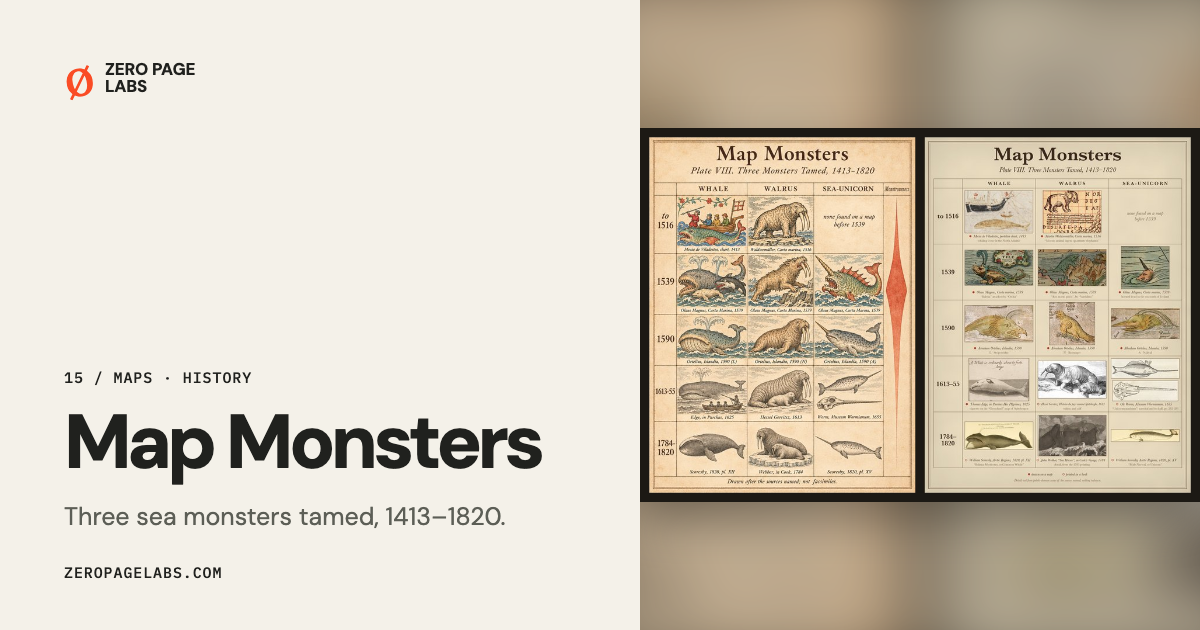
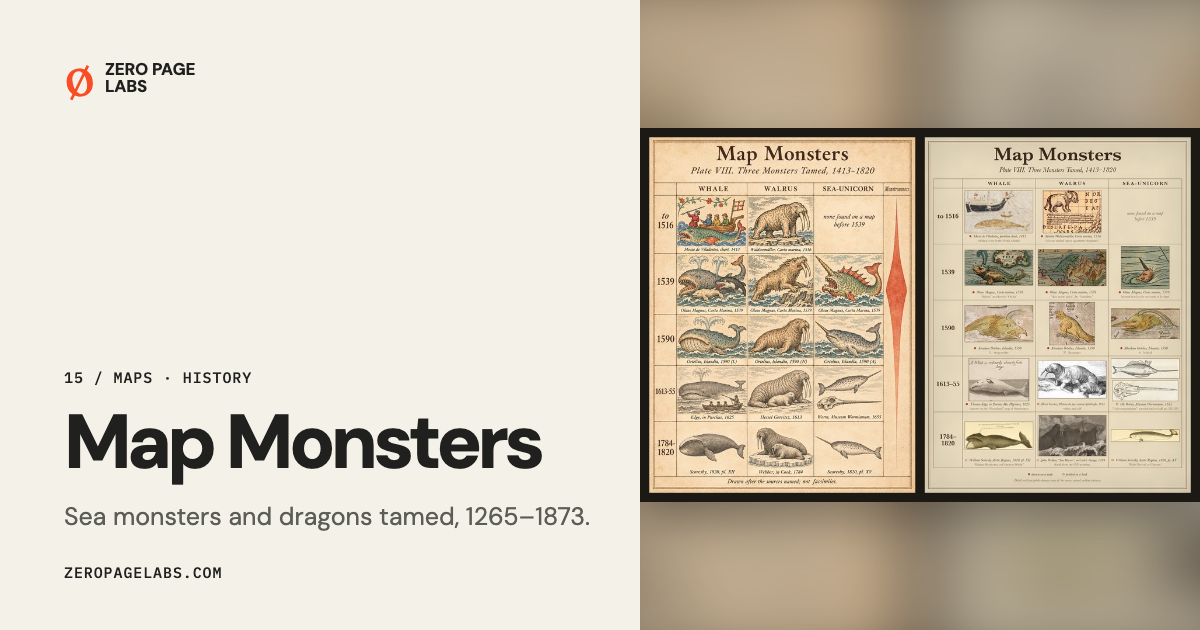
Map Monsters: add Plate IX (sea serpent, kraken) and Plate X (dragons, hydra)
Plate IX follows the sea serpent from Olaus Magnus's 1539 map to the
1860 Bermuda oarfish, and the kraken from his 1555 "polypus" to the 1873
Logy Bay giant squid photograph. Plate X follows the dragon from the
Psalter map (c. 1265) and the Hunt-Lenox globe's HC SVNT DRACONES to
Aldrovandi, Hevelius's star atlas and Seba's 1734 hydra. Each plate has
an illustrated view and one cut from public-domain scans; plate and view
are picked by tabs and the URL hash, and old #illustrated/#sources links
still open Plate VIII. Sources listed per plate.

Changed region(s): [[0.0308, 0.7841, 0.4933, 0.8444]]

diff --git a/experiments/map-monsters/index.html b/experiments/map-monsters/index.html
@@ -5,7 +5,7 @@
   <meta name="viewport" content="width=device-width,initial-scale=1">
   <meta name="theme-color" content="#1c1814">
   <title>Map Monsters — Zero Page Labs</title>
-  <meta name="description" content="Whale, walrus and sea-unicorn on maps and in books from 1413 to 1820, as one plate seen two ways: redrawn, and cut from the real scans.">
+  <meta name="description" content="Sea monsters and dragons on maps and in books, 1265–1873, in three plates seen two ways: redrawn, and cut from the real scans.">
   <link rel="canonical" href="https://zeropagelabs.com/experiments/map-monsters/">
   <link rel="icon" href="/assets/favicon.svg">
   <link rel="stylesheet" href="map-monsters.css">
@@ -21,39 +21,76 @@
 <main class="mm">
   <header class="title-row">
     <div>
-      <p class="kicker">Plate VIII · 1413–1820</p>
+      <p class="kicker">Three plates · 1265–1873</p>
       <h1>Map Monsters</h1>
     </div>
-    <p class="intro">Three animals the old mapmakers drew as monsters: the whale, the walrus and the narwhal, or sea-unicorn. Follow each down the plate and watch it settle into the animal over four centuries. See it two ways: redrawn, or cut straight from the maps and books.</p>
+    <p class="intro">What the old mapmakers drew in the sea and at the edges, and what became of it. Some monsters settled into real animals, some half did, and the dragons fled to the sky. Each plate can be seen two ways: redrawn, or cut straight from the maps and books.</p>
   </header>
 
-  <div class="views" role="tablist" aria-label="Choose a view">
-    <button type="button" role="tab" id="tab-illustrated" aria-controls="view-illustrated" aria-selected="true">Illustrated</button>
-    <button type="button" role="tab" id="tab-sources" aria-controls="view-sources" aria-selected="false">From the sources</button>
+  <div class="controls">
+    <div class="tabs plates" role="tablist" aria-label="Choose a plate">
+      <button type="button" role="tab" data-plate="viii" aria-selected="true"><b>VIII</b> Three tamed</button>
+      <button type="button" role="tab" data-plate="ix" aria-selected="false"><b>IX</b> Half-tamed</button>
+      <button type="button" role="tab" data-plate="x" aria-selected="false"><b>X</b> Dragons</button>
+    </div>
+    <div class="tabs views" role="tablist" aria-label="Choose a view">
+      <button type="button" role="tab" data-view="illustrated" aria-selected="true">Illustrated</button>
+      <button type="button" role="tab" data-view="sources" aria-selected="false">From the sources</button>
+    </div>
   </div>
 
   <div id="plate">
-    <section class="view" id="view-illustrated" role="tabpanel" aria-labelledby="tab-illustrated">
+    <!-- Plate VIII -->
+    <section class="view" id="viii-illustrated" data-plate="viii" data-view="illustrated" role="tabpanel" aria-label="Plate VIII, illustrated">
       <a class="plate" href="img/illustrated.webp" target="_blank" rel="noopener">
-        <img src="img/illustrated.webp" width="1086" height="1448" alt="Illustrated plate: whale, walrus and sea-unicorn in five rows from 1413 to 1820, each redrawn after a named map or book, with a red spindle labelled Monstrousness that peaks in 1539">
+        <img src="img/illustrated.webp" width="1086" height="1448" alt="Illustrated Plate VIII: whale, walrus and sea-unicorn in five rows from 1413 to 1820, each redrawn after a named map or book, with a red spindle labelled Monstrousness that peaks in 1539">
       </a>
-      <p class="note"><b>Redrawn, not copied.</b> An image model drew this plate after the sources named in its captions. It follows their spirit, not their lines: the Ortelius walrus and narwhal, for example, look nothing like this on the real map. The Monstrousness spindle is an invention. Switch to <a href="#view-sources" data-view="sources">From the sources</a> to see the originals.</p>
+      <p class="note"><b>Redrawn, not copied.</b> An image model drew this plate after the sources named in its captions. It follows their spirit, not their lines: the Ortelius walrus and narwhal, for example, look nothing like this on the real map. The Monstrousness spindle is an invention. Switch to <a href="#viii-sources" data-go="sources">From the sources</a> to see the originals.</p>
+    </section>
+    <section class="view" id="viii-sources" data-plate="viii" data-view="sources" role="tabpanel" aria-label="Plate VIII, from the sources" hidden>
+      <a class="plate" href="img/sources.webp" target="_blank" rel="noopener">
+        <img src="img/sources-1200.webp" srcset="img/sources-1200.webp 1200w, img/sources.webp 2400w" sizes="(max-width: 860px) 100vw, 820px" width="1200" height="1600" loading="lazy" alt="Plate VIII built from details of public-domain scans: fourteen crops of whale, walrus and narwhal from maps and books, 1413 to 1820">
+      </a>
+      <p class="note"><b>Nothing redrawn.</b> Every picture is a detail cut from a public-domain scan of the source named under it. A filled dot means it was drawn on a map; a ring means it was printed. Open the plate for the full-size version.</p>
     </section>
 
-    <section class="view" id="view-sources" role="tabpanel" aria-labelledby="tab-sources" hidden>
-      <a class="plate" href="img/sources.webp" target="_blank" rel="noopener">
-        <img src="img/sources-1200.webp" srcset="img/sources-1200.webp 1200w, img/sources.webp 2400w" sizes="(max-width: 860px) 100vw, 820px" width="1200" height="1600" alt="The same plate built from details of public-domain scans: fourteen crops from maps and books from 1413 to 1820, each captioned with its source, a filled dot for a map and a ring for a book">
+    <!-- Plate IX -->
+    <section class="view" id="ix-illustrated" data-plate="ix" data-view="illustrated" role="tabpanel" aria-label="Plate IX, illustrated" hidden>
+      <a class="plate" href="img/ix-illustrated.webp" target="_blank" rel="noopener">
+        <img src="img/ix-illustrated.webp" width="1086" height="1448" loading="lazy" alt="Illustrated Plate IX: sea serpent and kraken in five rows from 1539 to 1873, from a red serpent round a ship to an oarfish, and from a giant crayfish to a real giant squid draped over a tub">
       </a>
-      <p class="note"><b>Nothing redrawn.</b> Every picture is a detail cut from a public-domain scan of the source named under it. A filled dot means it was drawn on a map; a ring means it was printed in a book. Open the plate for the full-size version.</p>
+      <p class="note"><b>Redrawn, not copied.</b> An image model drew this plate after the sources named in its captions; it tidies and colours them. Switch to <a href="#ix-sources" data-go="sources">From the sources</a> to see the originals.</p>
+    </section>
+    <section class="view" id="ix-sources" data-plate="ix" data-view="sources" role="tabpanel" aria-label="Plate IX, from the sources" hidden>
+      <a class="plate" href="img/ix-sources.webp" target="_blank" rel="noopener">
+        <img src="img/ix-sources-1200.webp" srcset="img/ix-sources-1200.webp 1200w, img/ix-sources.webp 2400w" sizes="(max-width: 860px) 100vw, 820px" width="1200" height="1600" loading="lazy" alt="Plate IX built from details of public-domain scans: eight images of sea serpents and krakens from a map, books, a newspaper, prints and an 1873 photograph">
+      </a>
+      <p class="note"><b>Nothing redrawn.</b> The kraken ends in a photograph: the giant squid was named in 1857 and caught on film in 1873. The sea serpent never got one; the 1860 Bermuda “serpent” was an oarfish.</p>
+    </section>
+
+    <!-- Plate X -->
+    <section class="view" id="x-illustrated" data-plate="x" data-view="illustrated" role="tabpanel" aria-label="Plate X, illustrated" hidden>
+      <a class="plate" href="img/x-illustrated.webp" target="_blank" rel="noopener">
+        <img src="img/x-illustrated.webp" width="1086" height="1448" loading="lazy" alt="Illustrated Plate X: dragon and hydra on a world map, a globe, in a book, among the stars and in a curiosity cabinet, from about 1265 to 1734">
+      </a>
+      <p class="note"><b>Redrawn, not copied.</b> An image model drew this plate after the sources named in its captions. On the real Psalter map the dragons are pale gold on blue and far rougher. Switch to <a href="#x-sources" data-go="sources">From the sources</a> to see the originals.</p>
+    </section>
+    <section class="view" id="x-sources" data-plate="x" data-view="sources" role="tabpanel" aria-label="Plate X, from the sources" hidden>
+      <a class="plate" href="img/x-sources.webp" target="_blank" rel="noopener">
+        <img src="img/x-sources-1200.webp" srcset="img/x-sources-1200.webp 1200w, img/x-sources.webp 2400w" sizes="(max-width: 860px) 100vw, 820px" width="1200" height="1600" loading="lazy" alt="Plate X built from details of public-domain scans: dragons and hydras on the Psalter map, the Hunt–Lenox globe, Aldrovandi's 1640 book, Hevelius's 1690 star atlas and Seba's 1734 Thesaurus">
+      </a>
+      <p class="note"><b>Nothing redrawn.</b> “Here be dragons” is close to a myth: the Latin phrase is known from globes, not flat maps, and the Hunt–Lenox globe is one of them. Dragons survive on maps today only in the sky, as Draco and Hydra.</p>
     </section>
   </div>
 
   <section class="sources" aria-labelledby="sources-title">
     <h2 id="sources-title">The sources</h2>
+
+    <h3>Plate VIII · Three monsters tamed</h3>
     <ol>
       <li><b>Mecia de Viladestes, portolan chart, 1413.</b> A whaling scene in the North Atlantic. <a href="https://commons.wikimedia.org/wiki/File:Whaling_Cropped_from_1413_Portolan_chart_by_Mecia_de_Viladestes.jpg">Scan ↗</a></li>
       <li><b>Martin Waldseemüller, Carta marina, 1516.</b> The walrus as an elephant: “Morsus animal ingens quantitate elephantis”. <a href="https://commons.wikimedia.org/wiki/File:Carta_marina_navigatoria_Portvgallen_navigationes,_atqve_tocius_cogniti_orbis_terre_marisqve_formam_natvram_sitvs_et_terminos_nostris_temporibvs_recognitos_et_ab_antiqvorum_traditione_differentes,_LOC_2016586433-2.jpg">Library of Congress scan ↗</a></li>
-      <li><b>Olaus Magnus, Carta marina, 1539.</b> The “Balena” attacked by an “Orcha”, the “Ros marus piscis” by Vardahus, and a horned head south of Iceland. <a href="https://commons.wikimedia.org/wiki/File:Carta_Marina.jpeg">Scan ↗</a></li>
+      <li><b>Olaus Magnus, Carta marina, 1539.</b> The “Balena” attacked by an “Orcha”, the “Ros marus piscis” by Vardahus, a horned head south of Iceland, and the sea serpent of Plate IX. <a href="https://commons.wikimedia.org/wiki/File:Carta_Marina.jpeg">Scan ↗</a></li>
       <li><b>Abraham Ortelius, Islandia, 1590.</b> L, Steipereidur; N, Rostunger; A, Nahval. <a href="https://commons.wikimedia.org/wiki/File:Island_1590_Theatrum_Orbis_Terrarum_Ortelius.jpg">Scan of a 1983 facsimile ↗</a></li>
       <li><b>Hessel Gerritsz, Histoire du pays nommé Spitsberghe, 1613.</b> Walrus and calf. <a href="https://commons.wikimedia.org/wiki/File:Hessel_Gerritsz_-_Walruses_on_Spitsbergen.jpg">Scan ↗</a></li>
       <li><b>Thomas Edge, “Greneland”, in Purchas His Pilgrimes, 1625.</b> The whale vignette on the map’s border. <a href="https://commons.wikimedia.org/wiki/File:Kaart_van_Spitsbergen_van_Thomas_Edge,_1625_Greneland_(titel_op_object),_NG-1988-23.jpg">Rijksmuseum scan ↗</a></li>
@@ -61,7 +98,28 @@
       <li><b>John Webber, “Sea Horses”, in Cook’s Voyage, 1784.</b> Detail, from the 1785 printing. <a href="https://commons.wikimedia.org/wiki/File:Sea_horses._Drawn_by_J._Webber._Engraved_by_E._Scott._The_figures_by_J._Heath._(London,_G._Nicol_and_T._Cadell,_1785)_(IA_dr_sea-horses-drawn-by-j-webber-engraved-by-e-scott-the-figures-by-j-hea-00884012).jpg">Scan ↗</a></li>
       <li><b>William Scoresby, An Account of the Arctic Regions, 1820.</b> Plate XII, the common whale, and plate XV, the male narwhal. <a href="https://archive.org/details/accountofarcticr02scor/page/n602">Internet Archive ↗</a> · <a href="https://commons.wikimedia.org/wiki/File:An_account_of_the_Arctic_regions_with_a_history_and_description_of_the_northern_whale-fishery_(1820)_(14778424544).jpg">Plate XV ↗</a></li>
     </ol>
-    <p class="small">The horned head on Olaus Magnus’s map carries no label, so calling it the sea-unicorn is our reading. “None found on a map before 1539” means we found none, not that none exists. All scans are public domain or CC0.</p>
+
+    <h3>Plate IX · Two monsters half-tamed</h3>
+    <ol>
+      <li><b>Olaus Magnus, Historia de gentibus septentrionalibus, 1555, p. 763.</b> “De Polypis”: Olaus drew his polypus as a giant crayfish. <a href="https://commons.wikimedia.org/wiki/File:Olaus1555-p763-polypis.png">Scan ↗</a></li>
+      <li><b>Hans Egede’s sea serpent, seen off Greenland in 1734.</b> The woodcut as reprinted by Erik Pontoppidan, 1753. <a href="https://commons.wikimedia.org/wiki/File:Hans_Egede_sea_serpent_1734.jpg">Scan ↗</a></li>
+      <li><b>Pierre Denys de Montfort, Histoire naturelle des mollusques, c. 1801.</b> “Le poulpe colossal”. <a href="https://commons.wikimedia.org/wiki/File:Denys_de_Montfort_Poulpe_Colossal.jpg">Scan ↗</a></li>
+      <li><b>The Illustrated London News, 28 October 1848, p. 264.</b> “The sea-serpent when first seen from H.M.S. Dædalus”. <a href="https://commons.wikimedia.org/wiki/File:The_great_sea_serpent._The_sea_serpent_when_first_seen_from_H(er)_M(ajesty%27s)_S(hip)_DAEDALUS_LCCN2003680172.jpg">Library of Congress scan ↗</a></li>
+      <li><b>“The great sea-serpent, found in Hungary Bay, Bermuda, on January 22, 1860”.</b> Wood engraving from a sketch by W. D. Munro; the animal is an oarfish. <a href="https://commons.wikimedia.org/wiki/File:The_great_sea-serpent,_found_in_Hungary_Bay,_Bermuda,_on_January_22,_1860_-_from_a_sketch_by_W.D._Munro._LCCN2001695531.jpg">Library of Congress scan ↗</a></li>
+      <li><b>The French corvette Alecton and a giant squid, 30 November 1861.</b> Print after E. Rodolphe, 1865. <a href="https://commons.wikimedia.org/wiki/File:French_corvette_Alecton_attempts_to_capture_a_giant_squid.jpg">Scan ↗</a></li>
+      <li><b>Giant squid from Logy Bay, Newfoundland, November 1873.</b> Photographed over Moses Harvey’s bath, with notes by A. E. Verrill. <a href="https://commons.wikimedia.org/wiki/File:Logy_Bay_giant_squid,_1873.jpg">Scan ↗</a></li>
+    </ol>
+
+    <h3>Plate X · The dragon’s retreat</h3>
+    <ol>
+      <li><b>The Psalter world map, c. 1265.</b> Two dragons beneath the world. <a href="https://commons.wikimedia.org/wiki/File:Psalter_World_Map,_c.1265_dragons.jpg">Scan ↗</a></li>
+      <li><b>The Hunt–Lenox globe, c. 1510.</b> “HC SVNT DRACONES”, off the coast of Asia. New York Public Library photograph. <a href="https://commons.wikimedia.org/wiki/File:Lenox_Globe_Asia.png">Scan ↗</a></li>
+      <li><b>Ulisse Aldrovandi, Serpentum et draconum historiae, 1640.</b> The title page, and the seven-headed hydra on p. 387. <a href="https://commons.wikimedia.org/wiki/File:Ulyssis_Aldrovandi_BHL41765098.jpg">Title page ↗</a> · <a href="https://commons.wikimedia.org/wiki/File:Serpentum,_et_draconum_historiae_387.png">p. 387 ↗</a></li>
+      <li><b>Johannes Hevelius, star atlas (Firmamentum Sobiescianum), 1690.</b> Draco and Hydra. <a href="https://commons.wikimedia.org/wiki/File:Draco_Hevelius_-_Prodromus_astronomiae_1690_(5590223).jpg">Draco ↗</a> · <a href="https://commons.wikimedia.org/wiki/File:Johannes_Hevelius_-_Hydra.jpg">Hydra ↗</a></li>
+      <li><b>Albertus Seba, Thesaurus, vol. I, 1734, plate CII.</b> Fig. 1, the Hamburg hydra; fig. 2, a flying lizard. <a href="https://commons.wikimedia.org/wiki/File:Albertus_Seba_-_Hydra.jpg">Scan ↗</a></li>
+    </ol>
+
+    <p class="small">Some cells are readings, not labels: the horned head on Olaus Magnus’s map carries no name, so calling it the sea-unicorn is ours. Empty cells mean we found no picture, not that none exists. All scans are public domain or CC0.</p>
   </section>
 </main>
 </body>

diff --git a/experiments/map-monsters/map-monsters.css b/experiments/map-monsters/map-monsters.css
@@ -26,16 +26,19 @@ img { display: block; max-width: 100%; height: auto; }
 h1 { margin: 0; font-size: clamp(40px, 7vw, 68px); font-weight: 500; line-height: 1.05; }
 .intro { margin: 12px 0 0; font-size: 18px; max-width: 680px; }
 
-.views { display: inline-flex; margin: 22px 0 16px; border: 1px solid var(--rule); border-radius: 999px; padding: 3px; }
-.views button { -webkit-tap-highlight-color: transparent; font: 13px/1 var(--mono); letter-spacing: .06em; text-transform: uppercase; color: var(--muted); background: none; border: 0; border-radius: 999px; padding: 10px 16px; cursor: pointer; }
-.views button[aria-selected="true"] { background: var(--paper); color: var(--ground); }
-.views button:focus-visible { outline: 2px solid var(--red); outline-offset: 2px; }
+.controls { display: flex; flex-wrap: wrap; gap: 10px 14px; margin: 22px 0 16px; }
+.tabs { display: inline-flex; border: 1px solid var(--rule); border-radius: 999px; padding: 3px; }
+.tabs button { -webkit-tap-highlight-color: transparent; font: 13px/1 var(--mono); letter-spacing: .06em; text-transform: uppercase; color: var(--muted); background: none; border: 0; border-radius: 999px; padding: 10px 14px; cursor: pointer; white-space: nowrap; }
+.tabs button b { color: var(--red); font-weight: 600; margin-right: 4px; }
+.tabs button[aria-selected="true"] { background: var(--paper); color: var(--ground); }
+.tabs button:focus-visible { outline: 2px solid var(--red); outline-offset: 2px; }
 
 .plate { display: block; max-width: 820px; margin: 0 auto; box-shadow: 0 10px 40px rgba(0, 0, 0, .5); }
 .note { max-width: 680px; margin: 16px auto 0; color: var(--muted); }
 .note b { color: var(--paper); font-weight: 600; }
 
 .sources { margin-top: 44px; border-top: 1px solid var(--rule); padding-top: 18px; }
+h3 { margin: 22px 0 8px; font: 12px/1.2 var(--mono); letter-spacing: .1em; text-transform: uppercase; color: var(--red); }
 h2 { margin: 0 0 10px; font-size: 24px; font-weight: 500; }
 .sources ol { padding-left: 22px; margin: 0; }
 .sources li { margin: 0 0 8px; }
@@ -46,6 +49,7 @@ h2 { margin: 0 0 10px; font-size: 24px; font-weight: 500; }
   .mm { padding: 4px 14px 48px; }
   .topbar { padding: 12px 14px; }
   .intro { font-size: 16px; }
-  .views { display: flex; }
-  .views button { flex: 1; padding: 10px 8px; }
+  .controls { display: grid; }
+  .tabs { display: flex; }
+  .tabs button { flex: 1; padding: 10px 6px; font-size: 12px; letter-spacing: .03em; }
 }
